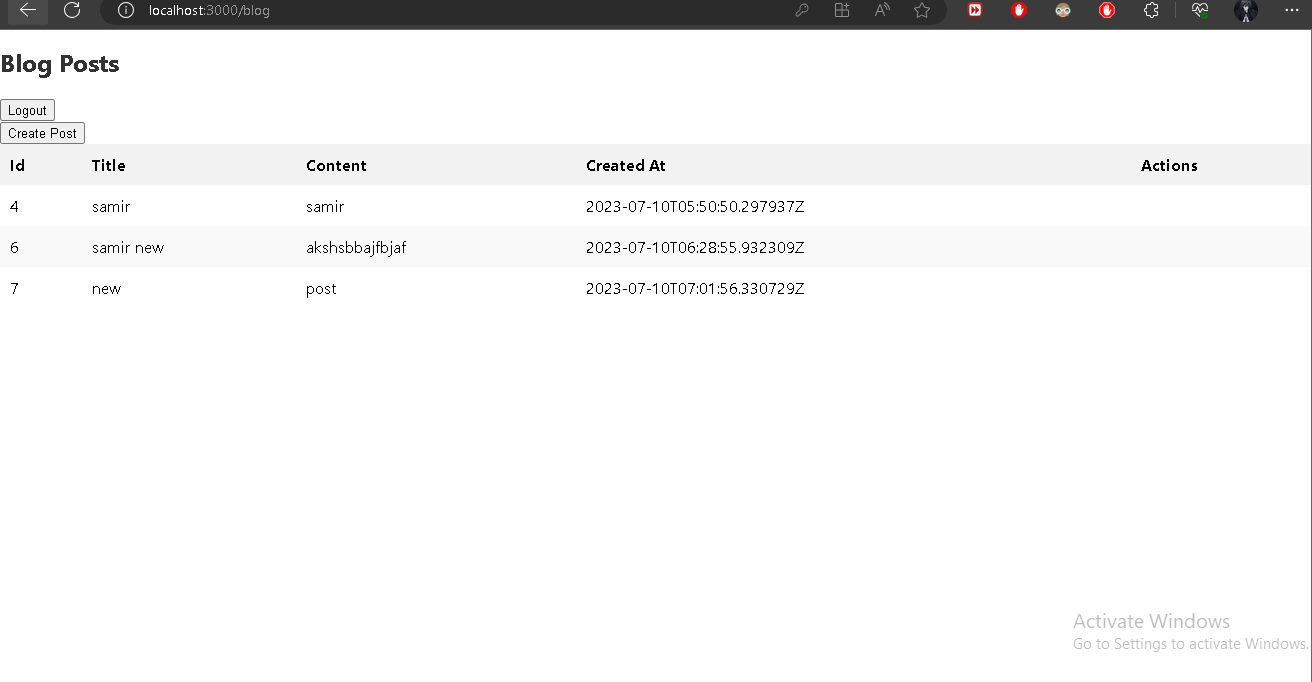
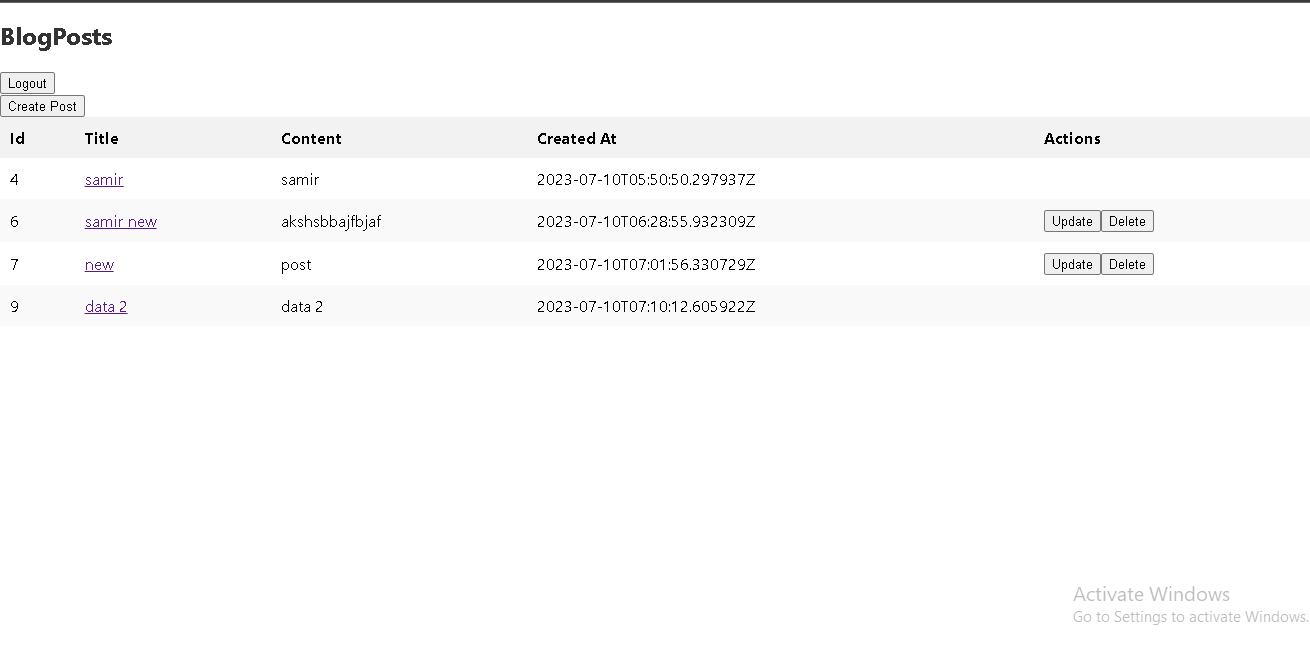
Screenshots updated

diff --git a/blogapp/src/Blog.js b/blogapp/src/Blog.js
@@ -148,14 +148,33 @@ function Blog() {
             localStorage.removeItem('access_token');
             localStorage.removeItem('refresh_token');
             navigate('/login');
-          } catch (error) {
+        } catch (error) {
             console.error(error);
-          }
+        }
+    };
+
+    const handleViewPost = async (postId) => {
+        const accessToken = localStorage.getItem('access_token');
+        const config = {
+            headers: {
+                Authorization: `Bearer ${accessToken}`
+            }
         };
 
+        try {
+            const response = await axios.get(`http://127.0.0.1:8000/blog/blogposts/${postId}/`, config);
+            setSelectedPost(response.data);
+        } catch (error) {
+            console.error(error);
+        }
+    };
+
+    const closePostDetails = () => {
+        setSelectedPost(null);
+    };
     return (
         <div>
-            <h1 className="blog-title">Blog Posts</h1>
+            <h1 className="blog-title">BlogPosts</h1>
             <div className="logout-button-container">
                 <button className="logout-button" onClick={handleLogout}>Logout</button>
             </div>
@@ -170,12 +189,17 @@ function Blog() {
                         <th>Content</th>
                         <th>Created At</th>
                         <th>Actions</th>
-                    </tr></thead>
+                    </tr>
+                </thead>
                 <tbody>
                     {blogPosts.map(post => (
                         <tr key={post.id}>
                             <td>{post.id}</td>
-                            <td>{post.title}</td>
+                            <td>
+                                <a className="view-link" href="#" onClick={() => handleViewPost(post.id)}>
+                                    {post.title}
+                                </a>
+                            </td>
                             <td>{post.content}</td>
                             <td>{post.created_at}</td>
                             <td>
@@ -193,18 +217,11 @@ function Blog() {
             {selectedPost && (
                 <div className="modal">
                     <div className="modal-content">
-                        <h2>Update Post</h2>
-                        <div>
-                            <label>Title:</label>
-                            <input type="text" value={updateTitle} onChange={e => setUpdateTitle(e.target.value)} />
-                        </div>
-                        <div>
-                            <label>Content:</label>
-                            <textarea value={updateContent} onChange={e => setUpdateContent(e.target.value)}></textarea>
-                        </div>
+                        <h2>{selectedPost.title}</h2>
+                        <p>{selectedPost.content}</p>
+                        {/* <p>Author: {selectedPost.author}</p> */}
                         <div className="modal-actions">
-                            <button onClick={handleUpdate}>Update</button>
-                            <button onClick={closeUpdateDialog}>Cancel</button>
+                            <button onClick={closePostDetails}>Close</button>
                         </div>
                     </div>
                 </div>
